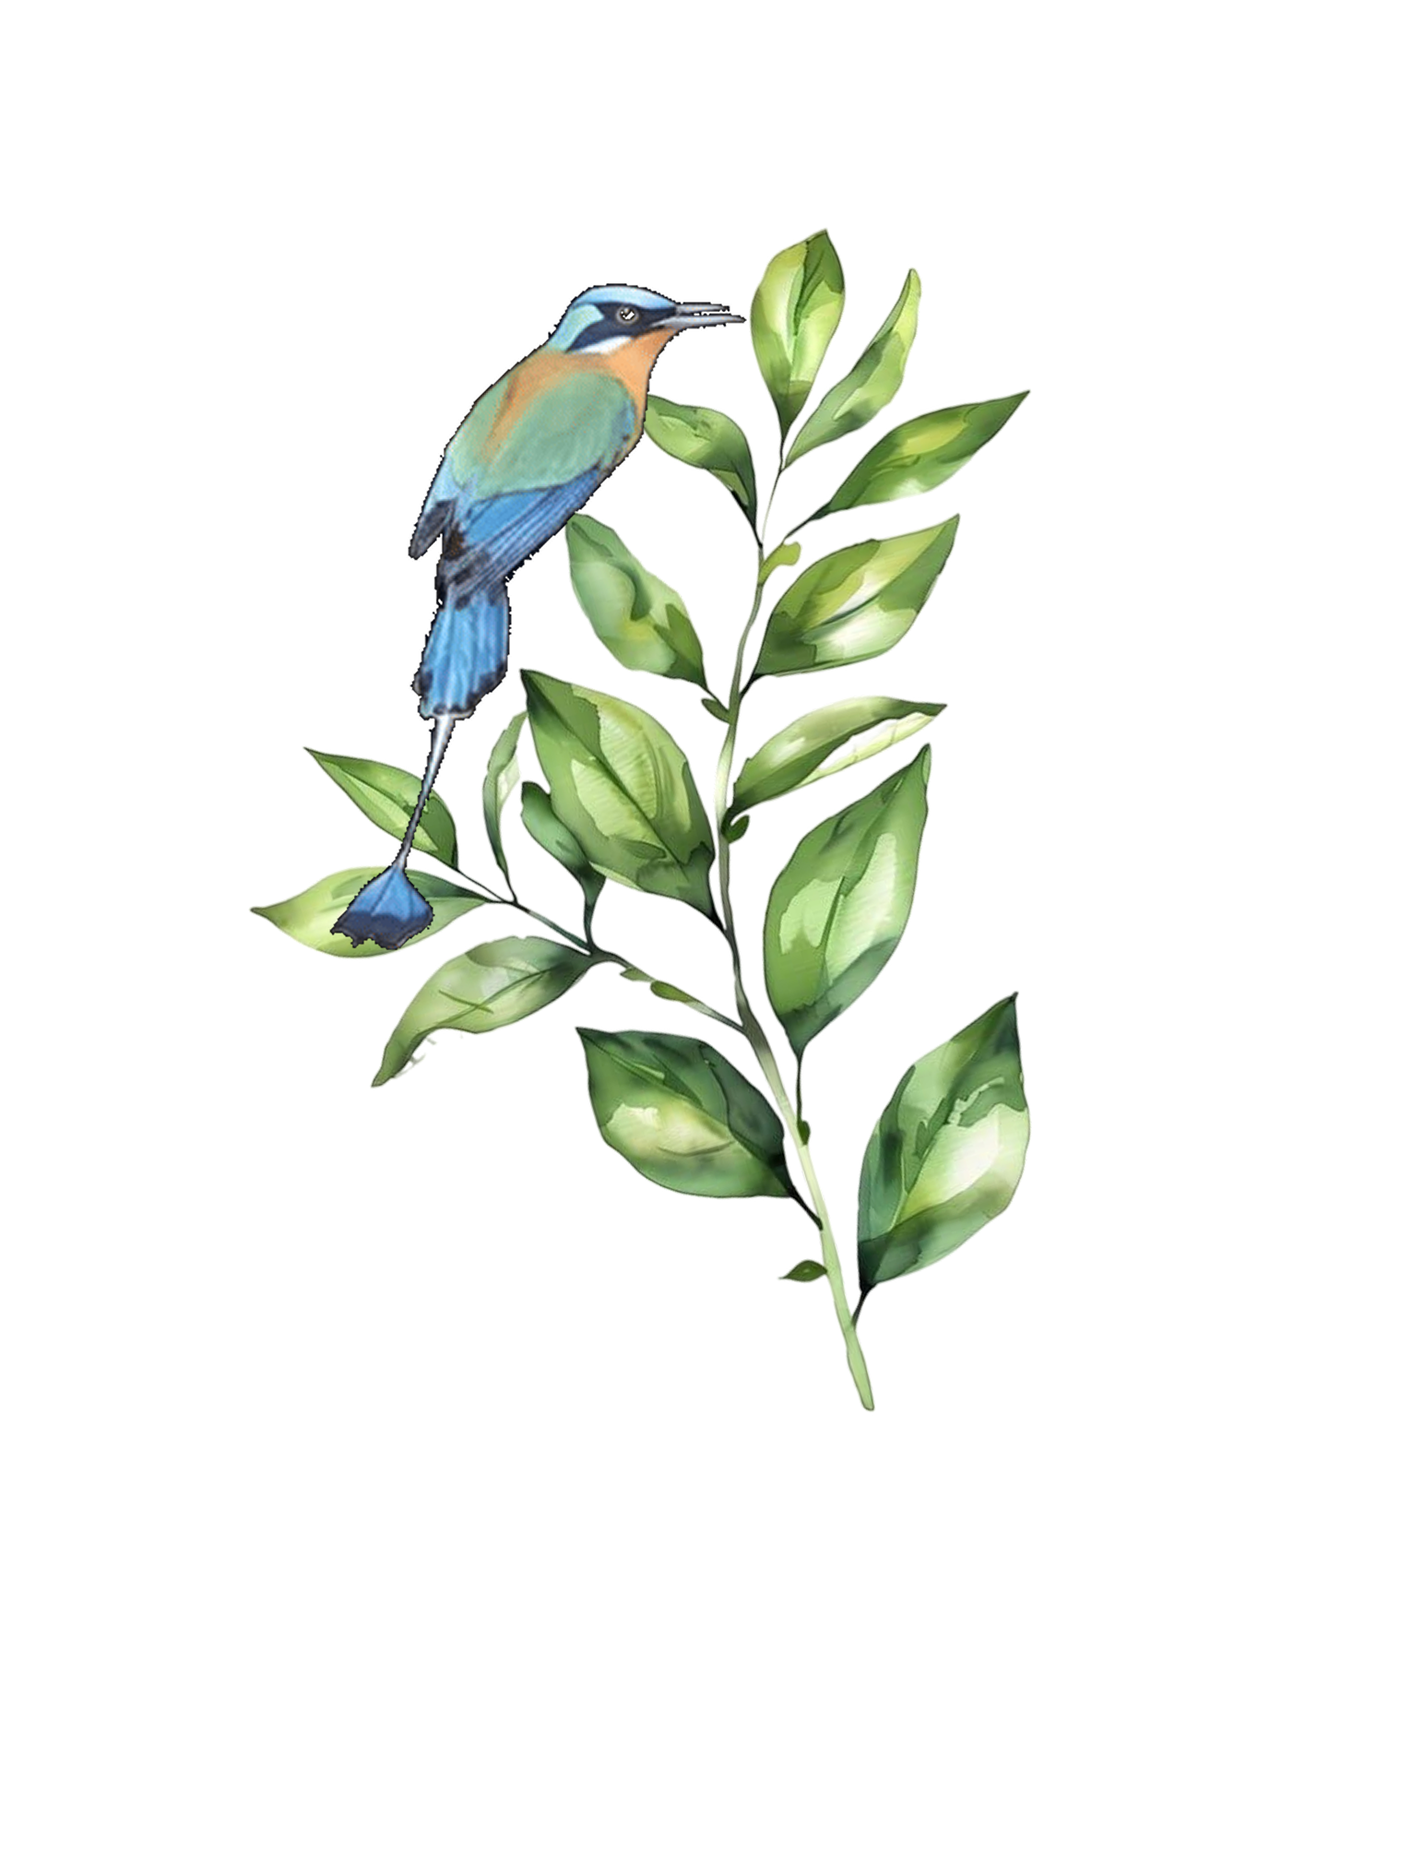
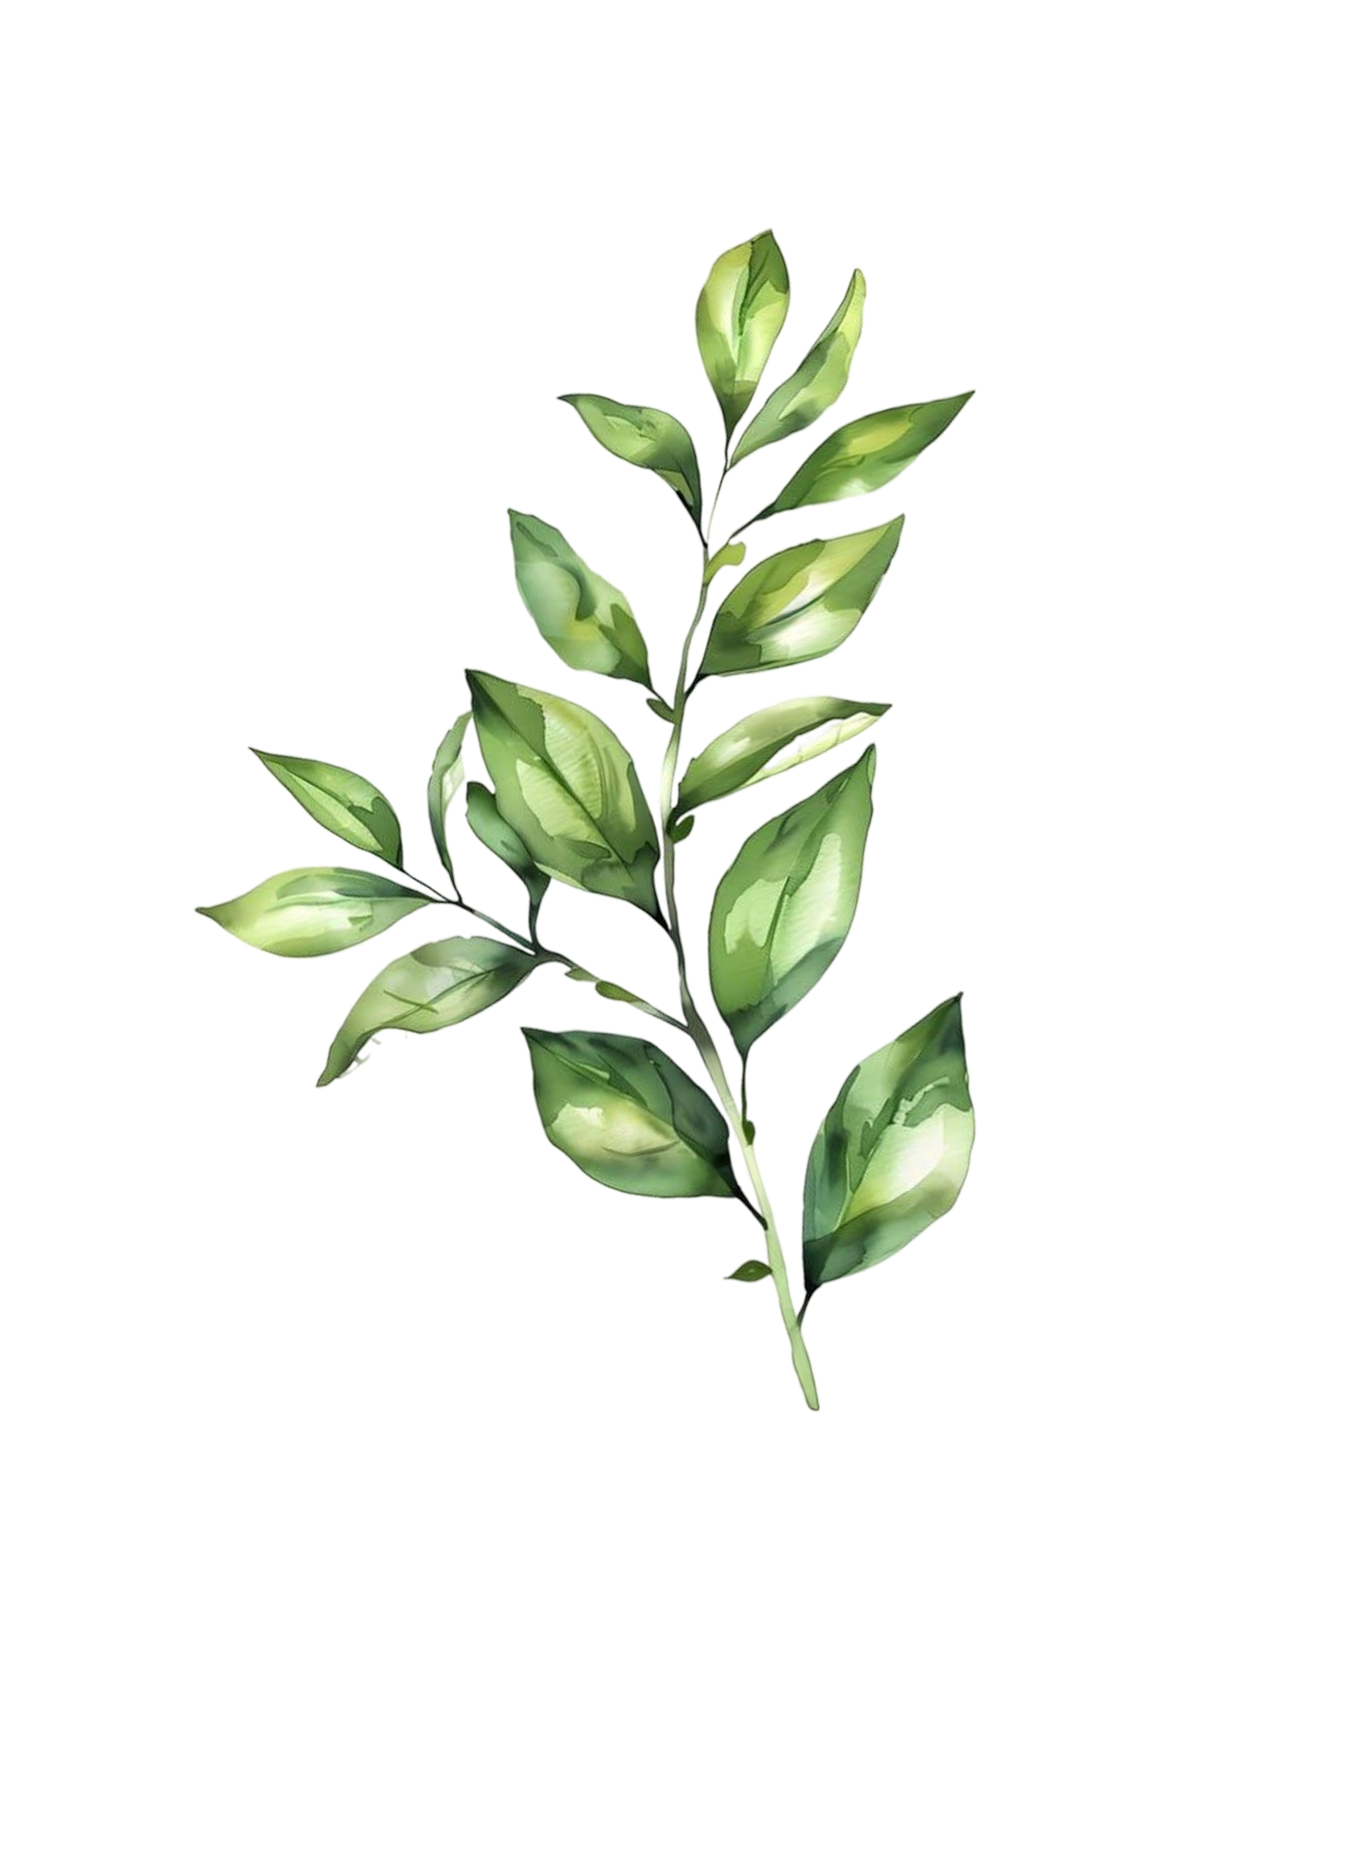
feat: animasi arya dan rana

Changed region(s): [[0.1549, 0.1244, 0.7434, 0.7778]]

diff --git a/app/components/WeddingAryaRana/Location.tsx b/app/components/WeddingAryaRana/Location.tsx
@@ -50,17 +50,28 @@ export default function Location({ data, isOpen }: Props) {
         </div>
 
         {/* Image Absolute */}
-        <Image src="/images/arya-dan-rana/mobile/img-kiri-atas-location.png" alt="Picture of gambar kiri atas location" width={138} height={245} className={`md:hidden absolute z-[3] left-0 top-0 pointer-events-none`} />
-        <Image src="/images/arya-dan-rana/mobile/img-kanan-atas-location.png" alt="Picture of gambar kanan atas location" width={275} height={274} className={`md:hidden w-[225px] absolute z-[3] right-0 top-0 pointer-events-none`} />
+        <Image src="/images/arya-dan-rana/mobile/img-kiri-atas-location.png" alt="Picture of gambar kiri atas location" width={138} height={245} className={`md:hidden absolute z-[3] left-0 top-0 pointer-events-none ${isOpen ? 'sway-stretch' : ''}`} style={{ animationDelay: '0.5s' }} />
 
-        <Image src="/images/arya-dan-rana/mobile/img-kiri-bawah-location.png" alt="Picture of gambar kiri bawah location" width={319} height={253} className={`md:hidden w-[205px] absolute z-[3] left-0 bottom-0 pointer-events-none`} />
+        <Image src="/images/arya-dan-rana/mobile/img-kanan-atas-location.png" alt="Picture of gambar kanan atas location" width={153} height={273} className={`md:hidden w-[85px] absolute z-[3] right-0 top-0 pointer-events-none`} />
+        <Image src="/images/arya-dan-rana/mobile/img-daun-kanan-atas-location-1.png" alt="Picture of gambar kanan atas location" width={173} height={273} className={`md:hidden absolute z-[3] right-0 top-0 pointer-events-none`} />
+
+        <Image src="/images/arya-dan-rana/mobile/img-daun-kiri-bawah-location-1.png" alt="Picture of gambar kiri bawah hero" width={153} height={273} className={`md:hidden absolute z-[3] left-0 -bottom-[30px] pointer-events-none ${isOpen ? 'sway-stretch-left' : ''}`} style={{ animationDelay: '0.5s' }} />
+        <Image src="/images/arya-dan-rana/mobile/img-daun-kiri-bawah-location-2.png" alt="Picture of gambar kiri bawah hero" width={183} height={273} className={`md:hidden absolute z-[3] left-0 bottom-0 pointer-events-none ${isOpen ? 'sway-stretch-left' : ''}`} style={{ animationDelay: '0.5s' }} />
+        <Image src="/images/arya-dan-rana/mobile/img-gelas-kiri-bawah-hero.png" alt="Picture of gambar kiri bawah hero" width={157} height={258} className={`md:hidden absolute z-[3] -left-[50px] bottom-[70px] pointer-events-none ${isOpen ? 'sway-up' : ''}`} style={{ animationDelay: '0.5s' }} />
+        <Image src="/images/arya-dan-rana/mobile/img-bunga-kiri-bawah-location.png" alt="Picture of gambar kiri bawah location" width={129} height={142} className={`md:hidden absolute z-[3] left-0 -bottom-[20px] pointer-events-none`} />
+        <Image src="/images/arya-dan-rana/mobile/img-kiri-bawah-location.png" alt="Picture of gambar kiri bawah location" width={118} height={159} className={`md:hidden absolute z-[3] left-0 bottom-[50px] pointer-events-none`} />
+
         <Image src="/images/arya-dan-rana/mobile/img-kanan-bawah-location.png" alt="Picture of gambar kiri bawah location" width={153} height={273} className={`md:hidden w-[125px] absolute z-[3] right-0 bottom-0 pointer-events-none`} />
 
         {/* Dekstop */}
-        <Image src="/images/arya-dan-rana/dekstop/img-kiri-atas-location.png" alt="Picture of gambar kiri atas location" width={613} height={610} className={`hidden md:block absolute z-[3] left-0 top-0 pointer-events-none`} />
+        <Image src="/images/arya-dan-rana/dekstop/img-kiri-atas-location.png" alt="Picture of gambar kiri atas location" width={613} height={610} className={`hidden md:block absolute z-[3] left-0 top-0 pointer-events-none ${isOpen ? 'sway-stretch' : ''}`} style={{ animationDelay: '0.5s' }} />
         <Image src="/images/arya-dan-rana/dekstop/img-kanan-atas-location.png" alt="Picture of gambar kanan atas location" width={684} height={682} className={`hidden md:block absolute z-[3] right-0 top-0 pointer-events-none`} />
 
-        <Image src="/images/arya-dan-rana/dekstop/img-kiri-bawah-location.png" alt="Picture of gambar kiri bawah location" width={600} height={821} className={`hidden md:block md:w-[400px] absolute z-[3] left-0 bottom-0 md:-bottom-[400px] pointer-events-none`} />
+        <Image src="/images/arya-dan-rana/dekstop/img-daun-kiri-bawah-location-1.png" alt="Picture of gambar kiri bawah hero" width={178} height={495} className={`hidden md:block absolute z-[3] left-0 -bottom-[100px] pointer-events-none ${isOpen ? 'sway-stretch-left' : ''}`} style={{ animationDelay: '0.5s' }} />
+        <Image src="/images/arya-dan-rana/dekstop/img-daun-kiri-bawah-location-2.png" alt="Picture of gambar kiri bawah hero" width={278} height={495} className={`hidden md:block absolute z-[3] left-0 -bottom-[280px] pointer-events-none ${isOpen ? 'sway-stretch-left' : ''}`} style={{ animationDelay: '0.5s' }} />
+        <Image src="/images/arya-dan-rana/mobile/img-gelas-kiri-bawah-hero.png" alt="Picture of gambar kiri bawah hero" width={271} height={409} className={`hidden md:block absolute z-[3] -left-[70px] -bottom-[50px] pointer-events-none ${isOpen ? 'sway-up' : ''}`} style={{ animationDelay: '0.5s' }} />
+        <Image src="/images/arya-dan-rana/dekstop/img-kiri-bawah-location.png" alt="Picture of gambar kiri bawah location" width={205} height={462} className={`hidden md:block absolute z-[3] left-0 -bottom-[250px] pointer-events-none`} />
+
         <Image src="/images/arya-dan-rana/dekstop/img-kanan-bawah-location.png" alt="Picture of gambar kiri bawah location" width={413} height={550} className={`hidden md:block md:w-[275px] absolute z-[3] right-0 bottom-0 md:-bottom-[350px] pointer-events-none`} />
       </div>
     </>

diff --git a/app/components/WeddingAryaRana/PlacesToStay.tsx b/app/components/WeddingAryaRana/PlacesToStay.tsx
@@ -44,22 +44,29 @@ export default function PlacesToStay({ data, isOpen }: Props) {
 
           {/* Image Absolute */}
           <Image src="/images/arya-dan-rana/mobile/img-kiri-atas-places-to-stay.png" alt="Picture of gambar kiri atas places to stay" width={138} height={153} className={`md:hidden w-[120px] absolute z-[3] left-0 top-[20px] pointer-events-none`} />
-          <Image src="/images/arya-dan-rana/mobile/img-kanan-atas-places-to-stay.png" alt="Picture of gambar kiri atas places to stay" width={214} height={280} className={`md:hidden absolute z-[2] -right-[10px] top-0 pointer-events-none`} />
+
+          <Image src="/images/arya-dan-rana/mobile/img-kanan-atas-places-to-stay.png" alt="Picture of gambar kiri atas places to stay" width={214} height={280} className={`md:hidden absolute z-[2] -right-[20px] -top-[15px] pointer-events-none`} />
+          <Image src="/images/arya-dan-rana/mobile/animasi-burung.gif" alt="Picture of gambar kiri atas profile" width={203} height={157} className={`md:hidden absolute z-[2] -right-[70px] -top-[30px] pointer-events-none scale-x-[-1]`} />
 
           <Image src="/images/arya-dan-rana/mobile/img-kiri-tengah-places-to-stay.png" alt="Picture of gambar kiri tengah places to stay" width={238} height={238} className={`md:hidden w-[155px] absolute z-[3] left-0 bottom-[212px] pointer-events-none`} />
 
+          <Image src="/images/arya-dan-rana/mobile/img-gelas-kiri-bawah-hero.png" alt="Picture of gambar kiri bawah hero" width={125} height={270} className={`md:hidden absolute z-[3] -left-[20px] -bottom-[50px] pointer-events-none ${isOpen ? 'sway-up' : ''}`} style={{ animationDelay: '0.5s' }} />
           <Image src="/images/arya-dan-rana/mobile/img-kiri-bawah-places-to-stay.png" alt="Picture of gambar kiri bawah places to stay" width={250} height={360} className={`md:hidden w-[120px] absolute z-[3] left-0 -bottom-[20px] pointer-events-none`} />
+
           <Image src="/images/arya-dan-rana/mobile/img-kanan-bawah-places-to-stay.png" alt="Picture of gambar kiri bawah places to stay" width={124} height={163} className={`md:hidden absolute z-[3] right-0 bottom-[40px] pointer-events-none`} />
 
           {/* Dekstop */}
           <Image src="/images/arya-dan-rana/dekstop/img-kiri-atas-places-to-stay.png" alt="Picture of gambar kiri atas places to stay" width={313} height={347} className={`hidden md:block absolute z-[3] left-[480px] top-0 pointer-events-none`} />
 
-          <Image src="/images/arya-dan-rana/dekstop/img-kiri-bawah-places-to-stay.png" alt="Picture of gambar kiri bawah places to stay" width={605} height={630} className={`hidden md:block md:w-[400px] absolute z-[3] left-[480px] -bottom-[200px] pointer-events-none`} />
+          <Image src="/images/arya-dan-rana/mobile/img-gelas-kiri-bawah-hero.png" alt="Picture of gambar kiri bawah hero" width={268} height={469} className={`hidden md:block absolute z-[3] left-[520px] -bottom-[100px] pointer-events-none ${isOpen ? 'sway-up' : ''}`} style={{ animationDelay: '0.5s' }} />
+          <Image src="/images/arya-dan-rana/dekstop/img-kiri-bawah-places-to-stay.png" alt="Picture of gambar kiri bawah places to stay" width={605} height={630} className={`hidden md:block md:w-[480px] absolute z-[3] left-[400px] -bottom-[220px] pointer-events-none`} />
+
           <Image src="/images/arya-dan-rana/dekstop/img-kanan-bawah-places-to-stay.png" alt="Picture of gambar kiri bawah places to stay" width={230} height={272} className={`hidden md:block md:w-[275px] absolute z-[3] right-[520px] bottom-[50px] pointer-events-none`} />
         </section>
 
         {/* Image Absolute */}
         <Image src="/images/arya-dan-rana/dekstop/img-kanan-atas-places-to-stay.png" alt="Picture of gambar kiri atas places to stay" width={386} height={506} className={`hidden md:block absolute z-[2] right-[480px] -top-[80px] pointer-events-none`} />
+        <Image src="/images/arya-dan-rana/mobile/animasi-burung.gif" alt="Picture of gambar kiri atas profile" width={291} height={283} className={`hidden md:block absolute z-[2] right-[480px] -top-[60px] pointer-events-none scale-x-[-1]`} />
       </div>
     </>
   )

diff --git a/app/components/WeddingAryaRana/Hero.tsx b/app/components/WeddingAryaRana/Hero.tsx
@@ -106,9 +106,9 @@ export default function Hero({ data, isOpen, setIsOpen }: HeroProps) {
         <Image src="/images/arya-dan-rana/mobile/img-gelas-kiri-bawah-hero.png" alt="Picture of gambar kiri bawah hero" width={177} height={258} className={`md:hidden absolute z-[3] -left-[50px] bottom-[70px] pointer-events-none ${isOpen ? 'sway-up' : ''}`} style={{ animationDelay: '0.5s' }} />
         <Image src="/images/arya-dan-rana/mobile/img-jeruk-kiri-bawah-hero.png" alt="Picture of gambar kiri bawah hero" width={182} height={201} className={`md:hidden absolute w-[110px] z-[3] left-0 bottom-[20px] pointer-events-none`} />
 
-        <Image src="/images/arya-dan-rana/mobile/img-daun-kanan-bawah-hero-1.png" alt="Picture of gambar kiri atas hero" width={193} height={343} className={`md:hidden absolute z-[3] right-0 -bottom-[80px] pointer-events-none ${isOpen ? 'sway-stretch-right' : ''}`} style={{ animationDelay: '0.5s' }} />
+        <Image src="/images/arya-dan-rana/mobile/img-daun-kanan-bawah-hero-1.png" alt="Picture of gambar kiri atas hero" width={193} height={343} className={`md:hidden absolute z-[3] right-0 -bottom-[80px] pointer-events-none`} />
         <Image src="/images/arya-dan-rana/mobile/img-kanan-bawah-hero.png" alt="Picture of gambar kiri bawah hero" width={100} height={100} className={`md:hidden absolute z-[3] right-0 bottom-[50px] pointer-events-none`} />
-        <Image src="/images/arya-dan-rana/mobile/animasi-burung.gif" alt="Picture of animasi burung hero" width={150} height={128} className={`md:hidden absolute z-[3] right-0 bottom-[128px] pointer-events-none scale-x-[-1]`} />
+        <Image src="/images/arya-dan-rana/mobile/animasi-burung.gif" alt="Picture of animasi burung hero" width={170} height={128} className={`md:hidden absolute z-[3] -right-[20px] bottom-[128px] pointer-events-none scale-x-[-1]`} />
 
         {/* Dekstop */}
         <Image src="/images/arya-dan-rana/dekstop/img-kiri-atas-hero.png" alt="Picture of gambar kiri atas hero" width={320} height={569} className={`hidden md:block w-[250px] absolute z-[3] left-0 top-0 pointer-events-none ${isOpen ? 'sway-stretch' : ''}`} style={{ animationDelay: '0.5s' }} />
@@ -122,9 +122,9 @@ export default function Hero({ data, isOpen, setIsOpen }: HeroProps) {
         <Image src="/images/arya-dan-rana/mobile/img-gelas-kiri-bawah-hero.png" alt="Picture of gambar kiri bawah hero" width={320} height={350} className={`hidden md:block absolute z-[3] -left-[70px] bottom-[90px] pointer-events-none ${isOpen ? 'sway-up' : ''}`} style={{ animationDelay: '0.5s' }} />
         <Image src="/images/arya-dan-rana/mobile/img-jeruk-kiri-bawah-hero.png" alt="Picture of gambar kiri bawah hero" width={240} height={265} className="hidden md:block absolute w-[160px] lg:w-[180px] z-[3] left-0 bottom-[25px] pointer-events-none" />
 
-        <Image src="/images/arya-dan-rana/mobile/img-daun-kanan-bawah-hero-1.png" alt="Picture of gambar kiri atas hero" width={419} height={748} className={`hidden md:block absolute z-[3] right-0 -bottom-[300px] pointer-events-none ${isOpen ? 'sway-stretch-right' : ''}`} style={{ animationDelay: '0.5s' }} />
+        <Image src="/images/arya-dan-rana/mobile/img-daun-kanan-bawah-hero-1.png" alt="Picture of gambar kiri atas hero" width={419} height={748} className={`hidden md:block absolute z-[3] right-0 -bottom-[300px] pointer-events-none`} />
         <Image src="/images/arya-dan-rana/dekstop/img-kanan-bawah-hero.png" alt="Picture of gambar kiri bawah hero" width={165} height={165} className={`hidden md:block absolute z-[3] right-0 bottom-0 pointer-events-none`} />
-        <Image src="/images/arya-dan-rana/mobile/animasi-burung.gif" alt="Picture of animasi burung hero" width={357} height={211} className={`hidden md:block absolute z-[3] right-0 bottom-[128px] pointer-events-none scale-x-[-1]`} />
+        <Image src="/images/arya-dan-rana/mobile/animasi-burung.gif" alt="Picture of animasi burung hero" width={387} height={211} className={`hidden md:block absolute z-[3] -right-[50px] bottom-[128px] pointer-events-none scale-x-[-1]`} />
       </section>
     </>
   )

diff --git a/app/components/WeddingAryaRana/Profile.tsx b/app/components/WeddingAryaRana/Profile.tsx
@@ -69,6 +69,8 @@ export default function Profile({ data, isOpen }: Props) {
 
           {/* Image Absolute */}
           <Image src="/images/arya-dan-rana/mobile/img-kiri-atas-profile.png" alt="Picture of gambar kiri atas profile" width={214} height={280} className={`md:hidden absolute z-[2] -left-[10px] top-0 pointer-events-none`} />
+          <Image src="/images/arya-dan-rana/mobile/animasi-burung.gif" alt="Picture of gambar kiri atas profile" width={223} height={157} className={`md:hidden absolute z-[2] -left-[70px] top-0 pointer-events-none`} />
+
           <Image src="/images/arya-dan-rana/mobile/img-kanan-atas-profile.png" alt="Picture of gambar kanan atas profile" width={125} height={143} className={`md:hidden absolute z-[3] right-0 top-[45px] pointer-events-none`} />
 
           <Image src="/images/arya-dan-rana/mobile/img-kiri-tengah-profile.png" alt="Picture of gambar kiri tengah profile" width={277} height={277} className={`md:hidden w-[115px] absolute z-[3] left-0 bottom-[286px] pointer-events-none`} />
@@ -88,7 +90,9 @@ export default function Profile({ data, isOpen }: Props) {
         </section>
 
         {/* Image Absolute */}
-        <Image src="/images/arya-dan-rana/dekstop/img-kiri-atas-profile.png" alt="Picture of gambar kiri atas profile" width={386} height={506} className={`hidden md:block absolute z-[2] left-[420px] -top-[80px] pointer-events-none`} />
+        <Image src="/images/arya-dan-rana/dekstop/img-kiri-atas-profile.png" alt="Picture of gambar kiri atas profile" width={386} height={506} className={`hidden md:block absolute z-[2] left-[430px] -top-[80px] pointer-events-none`} />
+        <Image src="/images/arya-dan-rana/mobile/animasi-burung.gif" alt="Picture of gambar kiri atas profile" width={291} height={283} className={`hidden md:block absolute z-[2] left-[420px] -top-[80px] pointer-events-none`} />
+
         <Image src="/images/arya-dan-rana/dekstop/img-kanan-atas-profile.png" alt="Picture of gambar kanan atas profile" width={308} height={246} className={`hidden md:block absolute z-[3] right-[450px] -top-[20px] pointer-events-none`} />
       </div>
     </>

diff --git a/app/components/WeddingAryaRana/index.tsx b/app/components/WeddingAryaRana/index.tsx
@@ -100,6 +100,8 @@ export default function WeddingAryaRana({ data }: Props) {
   useEffect(() => {
     if (!audioRef.current) return
 
+    setIsPlaying(true)
+
     if (isOpen) {
       audioRef.current.play().catch((error) => {
         console.log('Audio gagal diputar:', error)
@@ -200,7 +202,8 @@ export default function WeddingAryaRana({ data }: Props) {
       {/* <ThingsToDo data={data} isOpen={isOpen} /> */}
       <Wishes data={data} isOpen={isOpen} />
       <Footer data={data} isOpen={isOpen} />
-      <button type="button" onClick={toggleAudio} aria-label={isPlaying ? 'Pause music' : 'Play music'} className="
+      {isOpen && (
+        <button type="button" onClick={toggleAudio} aria-label={isPlaying ? 'Pause music' : 'Play music'} className="
           fixed
           z-[999]
           right-[20px]
@@ -225,14 +228,15 @@ export default function WeddingAryaRana({ data }: Props) {
           duration-300
           hover:bg-black/60
           active:scale-90
-        "
-      >
-        {isPlaying ? (
-          <HiVolumeUp className="text-[21px]" />
-        ) : (
-          <HiVolumeOff className="text-[21px]" />
-        )}
-      </button>
+          "
+        >
+          {isPlaying ? (
+            <HiVolumeUp className="text-[21px]" />
+          ) : (
+            <HiVolumeOff className="text-[21px]" />
+          )}
+        </button>
+      )}
     </>
   )
 }

diff --git a/app/[id]/style.css b/app/[id]/style.css
@@ -153,9 +153,9 @@
 }
 
 @keyframes sway-bottom {
-  0%   { transform: rotate(-12deg); }
-  50%  { transform: rotate(12deg); }
-  100% { transform: rotate(-12deg); }
+  0%   { transform: rotate(-8deg); }
+  50%  { transform: rotate(8deg); }
+  100% { transform: rotate(-8deg); }
 }
 
 @keyframes sway-stretch {
@@ -291,7 +291,7 @@
 
 .sway-up {
   transform-origin: bottom center;
-  animation: sway-bottom 5s ease-in-out infinite;
+  animation: sway-bottom 10s ease-in-out infinite;
 }
 
 .sway-stretch {
